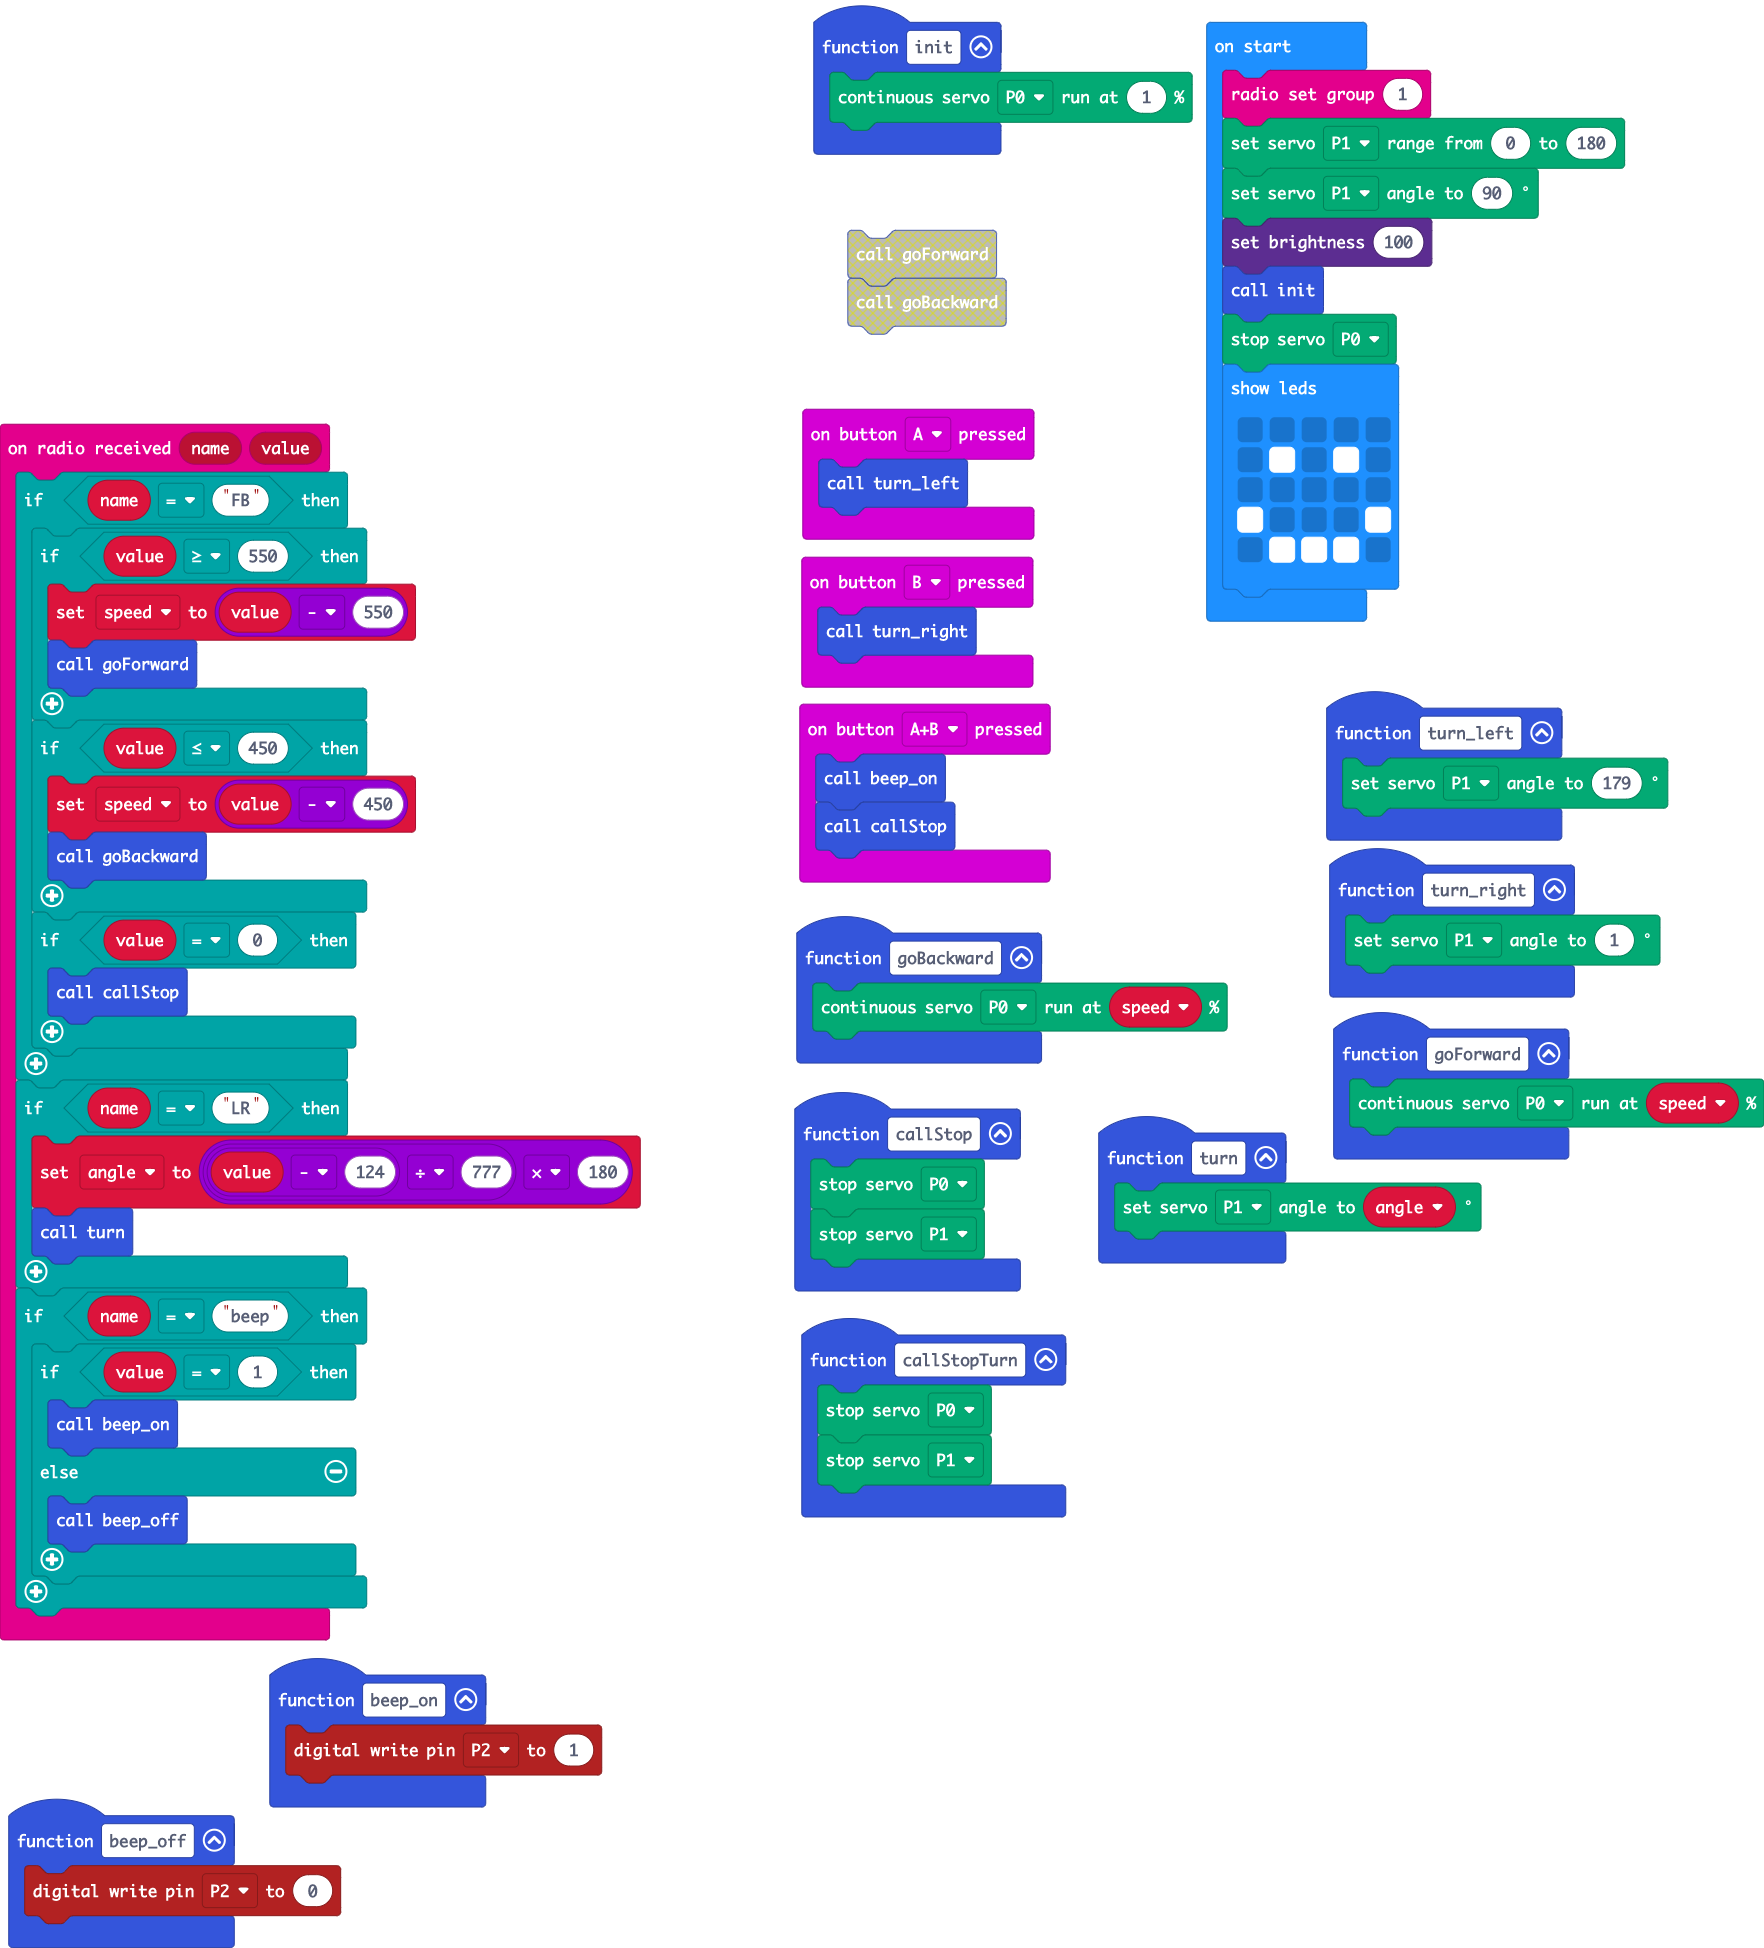
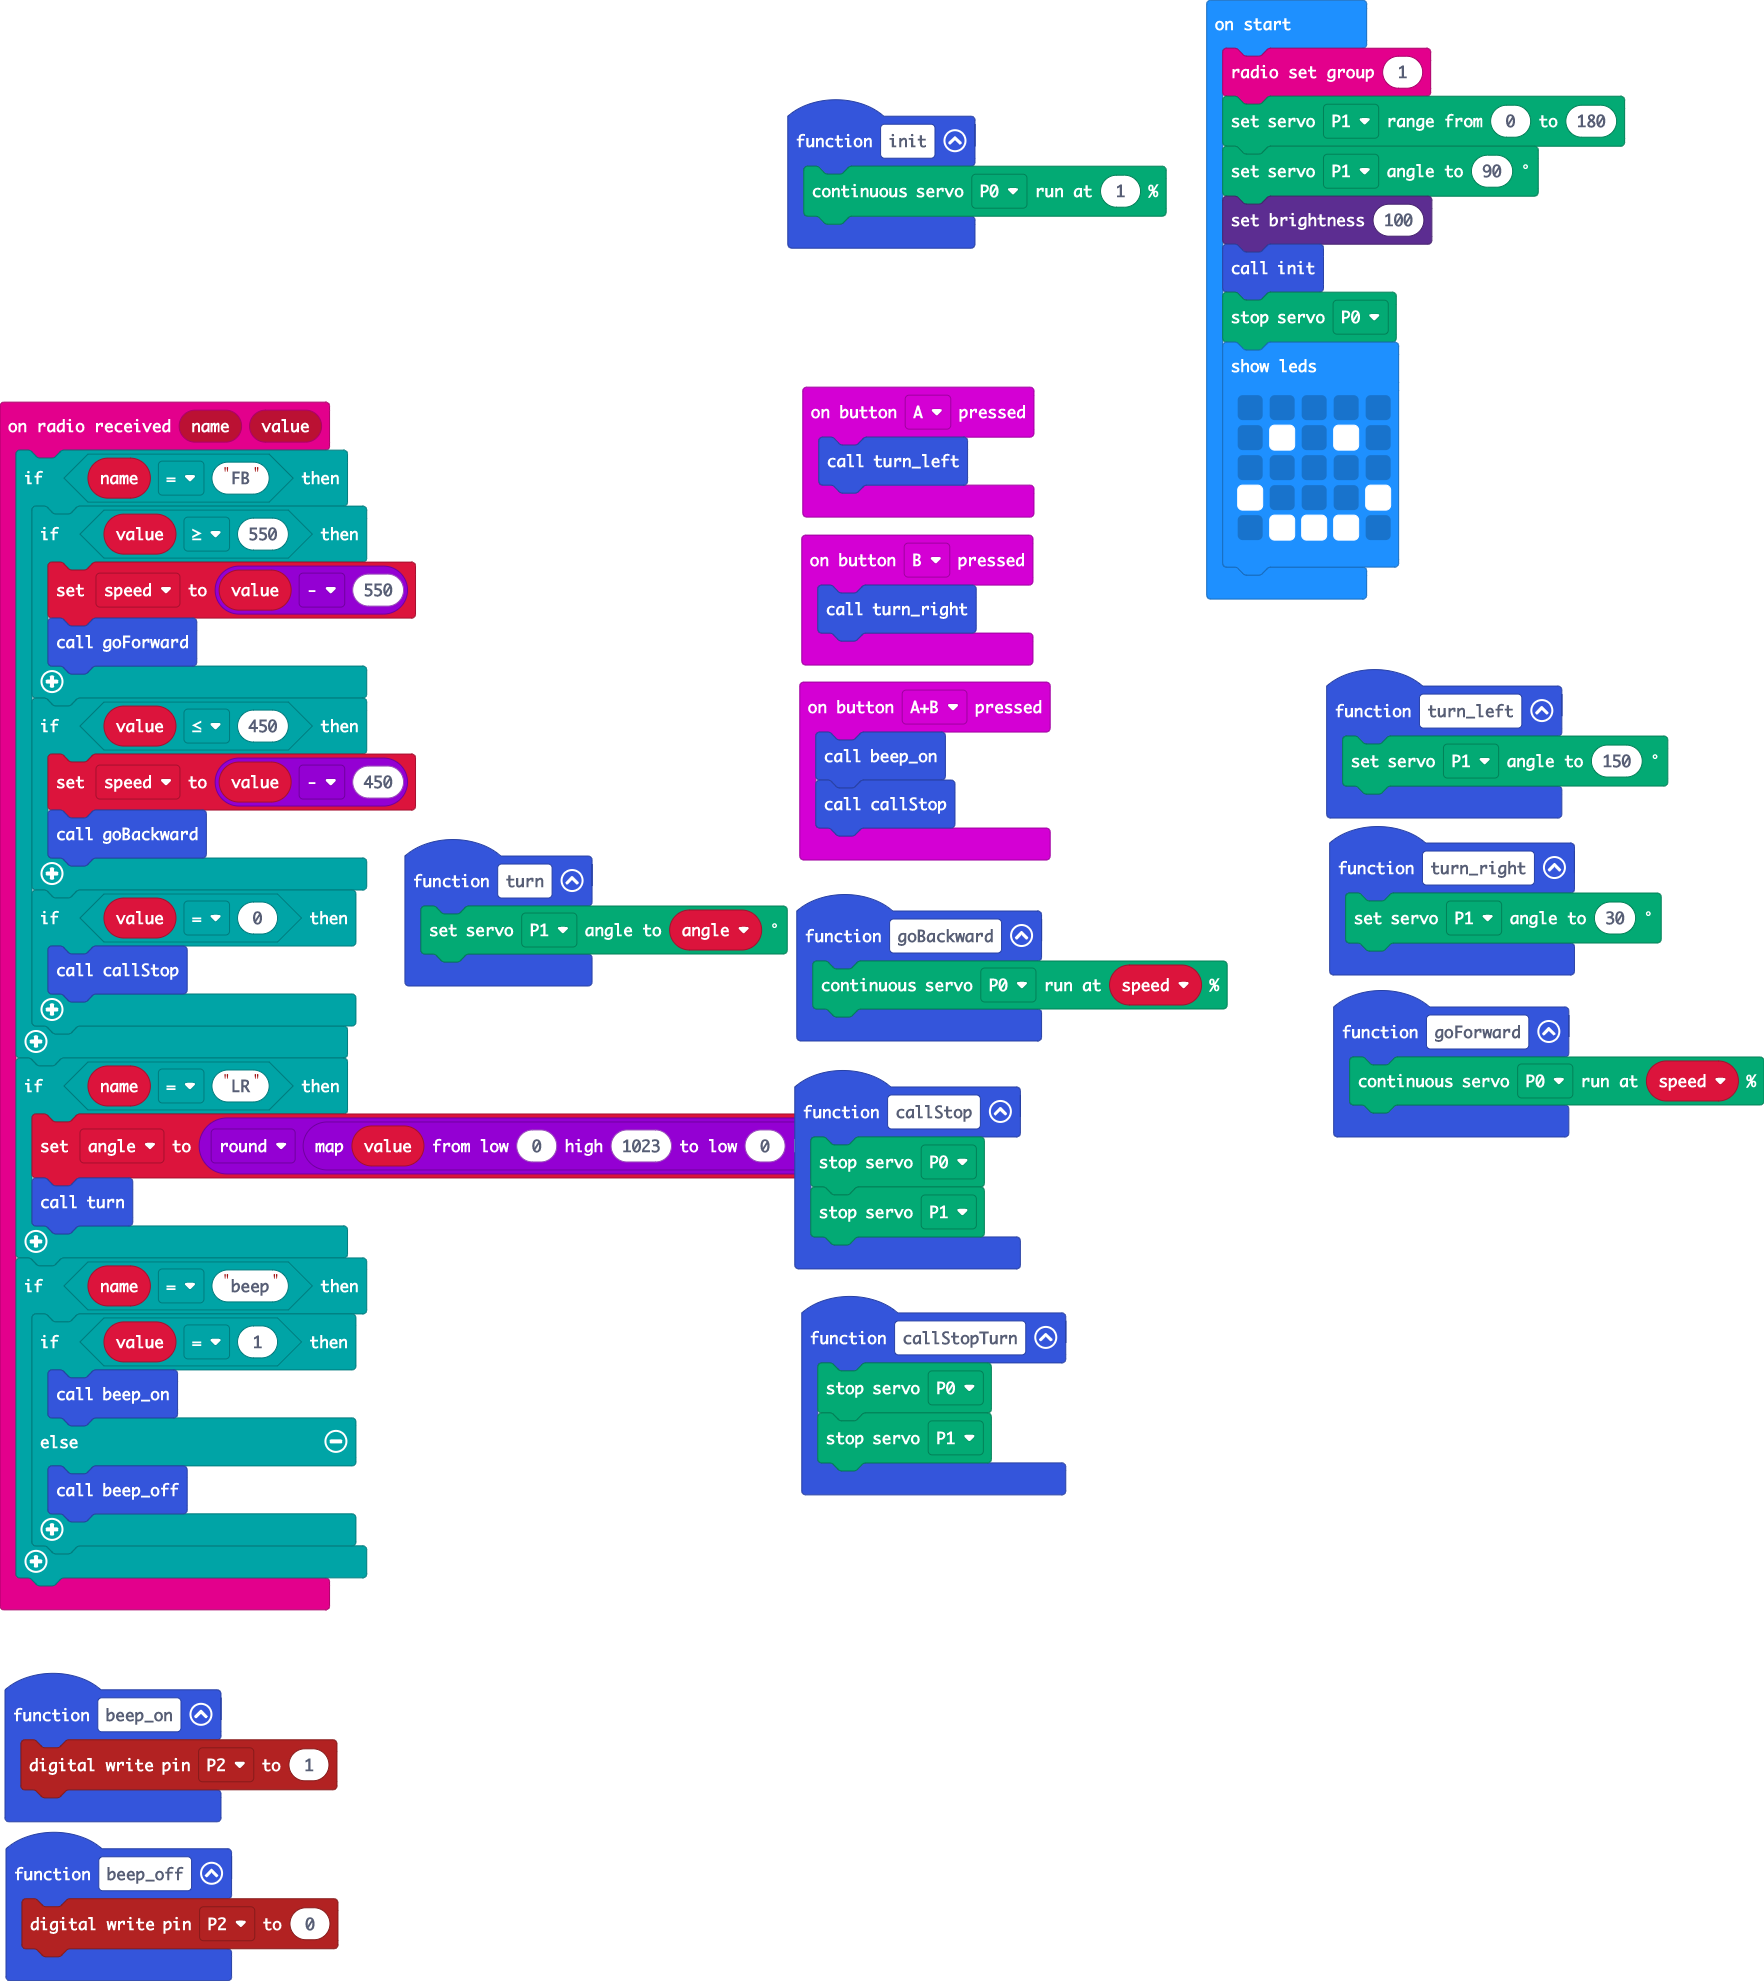
Update pxt.json, main.blocks, main.ts

Changed region(s): [[0.0, 0.0, 1.0, 0.9856]]

diff --git a/main.ts b/main.ts
@@ -15,7 +15,7 @@ function callStopTurn () {
     servos.P1.stop()
 }
 function turn_left () {
-    servos.P1.setAngle(179)
+    servos.P1.setAngle(150)
 }
 function init () {
     servos.P0.run(1)
@@ -49,7 +49,7 @@ radio.onReceivedValue(function (name, value) {
         }
     }
     if (name == "LR") {
-        angle = (value - 124) / 777 * 180
+        angle = Math.round(Math.map(value, 0, 1023, 0, 180))
         turn()
     }
     if (name == "beep") {
@@ -61,7 +61,7 @@ radio.onReceivedValue(function (name, value) {
     }
 })
 function turn_right () {
-    servos.P1.setAngle(1)
+    servos.P1.setAngle(30)
 }
 function beep_on () {
     pins.digitalWritePin(DigitalPin.P2, 1)
